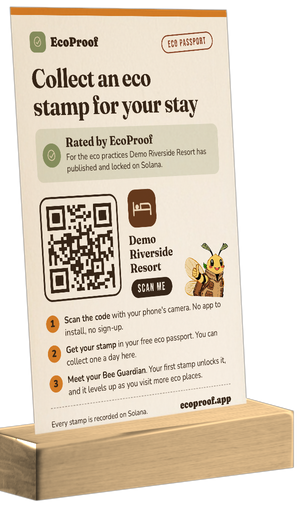
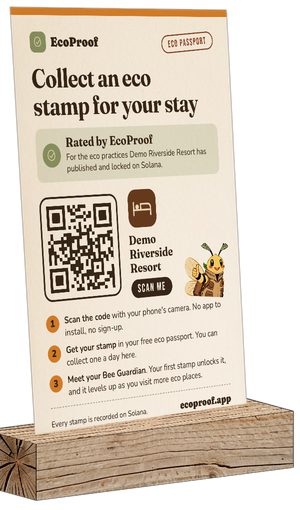
Hero: stand of rough natural wood; no owner line, no early-days box
Claude-Session: https://claude.ai/code/session_01HWHP3iugw8gkvvKKS5vpBj

Changed region(s): [[0.0, 0.7647, 0.99, 1.0]]

diff --git a/components/landing/Landing.tsx b/components/landing/Landing.tsx
@@ -199,7 +199,7 @@ function SolanaTip() {
 }
 
 /** The hero's words and actions, shared by every hero. `center` for the island, where the copy sits in the sky. */
-/** The hero speaks to customers (Pola, 2026-11-18); owners get one line with "Add place" under it. */
+/** The hero speaks to customers only (Pola, 2026-11-18); owners find "Add place" in the navigation. */
 function HeroCopy({ center }: { center?: boolean }) {
   return (
     <>
@@ -210,7 +210,6 @@ function HeroCopy({ center }: { center?: boolean }) {
         <Link href="/map" className="inline-flex h-12 items-center text-[16px] font-extrabold text-cocoa underline decoration-sky decoration-[3px] underline-offset-4 hover:decoration-honey">Find eco places</Link>
       </div>
       <p className={`${center ? "text-center " : ""}mt-3 text-[15px] font-bold text-cocoa/85`}>Free. No app to install, no account needed to start.</p>
-      <p className={`${center ? "text-center " : ""}mt-2 text-[15px] text-cocoa/85`}>Run an eco café, hotel or shop? <Link href="/join" className="font-extrabold text-cocoa underline decoration-sky decoration-[3px] underline-offset-4 hover:decoration-honey">Add place</Link>. Free for the first 50 businesses.</p>
     </>
   );
 }
@@ -239,7 +238,6 @@ export default async function Landing({ stats }: { stats: LandingStats | null })
           <div className="mx-auto grid max-w-[1200px] items-center gap-12 lg:grid-cols-[minmax(0,7fr)_minmax(0,5fr)] lg:gap-12">
             <div>
               <HeroCopy />
-              <CounterStrip stats={stats} className="mt-8 flex" />
             </div>
             <MapPicture scanned />
           </div>

diff --git a/components/landing/MapPicture.tsx b/components/landing/MapPicture.tsx
@@ -133,7 +133,7 @@ export default function MapPicture({ scanned = false }: { scanned?: boolean }) {
         <svg viewBox="0 0 100 100" preserveAspectRatio="none" className="pointer-events-none absolute inset-0 h-full w-full" aria-hidden>
           <path d="M83 33 C 86 36, 87 40, 86 46" fill="none" stroke="#e08a2e" strokeWidth={3} strokeDasharray="7 6" strokeLinecap="round" vectorEffect="non-scaling-stroke" />
         </svg>
-        <Image src="/landing/hero/stand-oak.webp" alt="The hotel's EcoProof postcard on a small stand of natural wood: Collect an eco stamp for your stay, Rated by EcoProof, with a QR code" width={300} height={510} sizes="(min-width: 640px) 170px, 120px"
+        <Image src="/landing/hero/stand-rough.webp" alt="The hotel's EcoProof postcard on a small stand of rough natural wood: Collect an eco stamp for your stay, Rated by EcoProof, with a QR code" width={300} height={510} sizes="(min-width: 640px) 170px, 120px"
           className="hero-stand absolute -bottom-[16%] -left-3 -rotate-[3deg] drop-shadow-[0_18px_22px_rgba(58,42,28,0.4)] lg:-left-10" />
         <ScanPhone />
       </>}

diff --git a/art/hero-scan/cutout.py b/art/hero-scan/cutout.py
@@ -19,25 +19,24 @@ a = cv2.warpPerspective(np.full((ch, cw), 255, np.float32), M, (W*SS, H*SS), fla
 big = big*(1-a) + big*(pr/255)*a
 # The block in the photo is far wider and deeper than the card and has a glossy top (Pola: "overdimensional", "too shiny", "thinner
 # in depth"), so a slim holder is built from its wood instead: a little wider than the card, a narrow strip deep, lower, with a matt
-# top. Its faces carry the grain of the photo's two side faces, laid onto the new shape and recoloured to light natural oak.
+# top. Its faces are rough sawn, untreated wood (wood.py: a plank for the top and the front, end grain for the side; Pola: natural, rougher, nature looking).
 F, R, L = np.float32((500, 828)), np.float32((773, 793)), np.float32((303, 775))     # the photo block's front, right and left top corners
 P = lambda a, b: F + a*(R - F) + b*(L - F)                                            # a along the card, b into the depth; the card stands at b = 0.57
 A0, A1, B0, B1, TH = -0.04, 0.90, 0.44, 0.70, np.float32((0, 56))                     # the new holder: along the card, in depth, and its height
 f, r, l, bk = P(A0, B0), P(A1, B0), P(A0, B1), P(A1, B1)
-plain = cv2.resize(src, (W*SS, H*SS), interpolation=cv2.INTER_LANCZOS4).astype(np.float32); size = (W*SS, H*SS)
-block = np.zeros_like(plain); bm = np.zeros((H*SS, W*SS), np.uint8)
-OAK = np.float32((214, 180, 134))                # light, untreated oak (Pola: natural wood, not the photo's dark stained block)
-def face(src_quad, dst_quad, gain=1.0):
+size = (W*SS, H*SS)
+block = np.zeros((H*SS, W*SS, 3), np.float32); bm = np.zeros((H*SS, W*SS), np.uint8)
+WOOD = {n: np.asarray(Image.open(D/f"wood_{n}.png").convert("RGB"), np.float32) for n in ("face", "end")}   # wood.py: rough sawn, untreated
+def face(tex, box, dst_quad, gain=1.0):
+    """Lay the part `box` (x0, y0, x1, y1) of a wood texture onto one face of the holder."""
     global block, bm
-    M2 = cv2.getPerspectiveTransform(np.float32(src_quad)*SS, np.float32(dst_quad)*SS)
-    w = cv2.warpPerspective(plain, M2, size, flags=cv2.INTER_AREA); m = np.zeros((H*SS, W*SS), np.uint8); cv2.fillPoly(m, [np.int32(np.float32(dst_quad)*SS)], 255, cv2.LINE_AA)
-    lum = w.mean(2, keepdims=True); mean = lum[m > 0].mean()
-    w = OAK*gain*(lum/mean)**0.55                # natural, unstained wood: the photo's grain, in the colour of light oak
-    k = (m.astype(np.float32)/255)[..., None]; block = block*(1-k) + w*k; bm = np.maximum(bm, m)
-RIGHT = [(500, 834), (773, 800), (773, 895), (500, 968)]; LEFT = [(306, 782), (497, 834), (497, 968), (306, 860)]   # the photo's two faces, just inside their edges
-face(RIGHT, [l, bk, r, f], 1.07)             # top: matt wood, a little lighter than the front
-face(LEFT, [l, f, f + TH, l + TH], 0.74)     # the side in shadow
-face(RIGHT, [f, r, r + TH, f + TH], 0.93)    # the front
+    x0, y0, x1, y1 = box; t = WOOD[tex][y0:y1, x0:x1]
+    M2 = cv2.getPerspectiveTransform(np.float32([(0, 0), (x1-x0, 0), (x1-x0, y1-y0), (0, y1-y0)]), np.float32(dst_quad)*SS)
+    w = cv2.warpPerspective(t, M2, size, flags=cv2.INTER_AREA); m = np.zeros((H*SS, W*SS), np.uint8); cv2.fillPoly(m, [np.int32(np.float32(dst_quad)*SS)], 255, cv2.LINE_AA)
+    k = (m.astype(np.float32)/255)[..., None]; block = block*(1-k) + w*gain*k; bm = np.maximum(bm, m)
+face("face", (60, 40, 1000, 230), [l, bk, r, f], 1.06)            # top: the plank's upper boards
+face("end", (60, 120, 400, 420), [l, f, f + TH, l + TH], 0.72)    # the side: end grain, in shadow
+face("face", (40, 280, 1000, 500), [f, r, r + TH, f + TH], 0.92)  # the front: the lower boards with their knots
 cm = np.zeros((H*SS, W*SS), np.uint8); cv2.fillPoly(cm, [np.int32(np.float32(QUAD)*SS)], 255, cv2.LINE_AA)
 ca = (cv2.GaussianBlur(cm, (0, 0), 0.8).astype(np.float32)/255)[..., None]
 out = block*(1-ca) + big*ca

diff --git a/art/hero-scan/wood.py b/art/hero-scan/wood.py
@@ -1,0 +1,14 @@
+#!/usr/bin/env python3
+"""Rough natural wood for the hero's card holder (Pola: natural, rougher, nature looking): a face texture and an end-grain texture.
+epicrealismXL via the local A1111 API → wood_face.png, wood_end.png (1024x512 / 512x512)."""
+import base64, io, json, pathlib, urllib.request
+from PIL import Image
+D = pathlib.Path(__file__).parent
+CKPT = "sd/epicrealismXL_vxviiCrystalclear.safetensors [3267fd6443]"
+JOBS = {"wood_face": ("flat lay macro photo, full frame texture of a rough sawn raw untreated pale wood plank, natural light brown, coarse open grain running horizontally, saw marks, small knots and cracks, weathered, matte, even soft light, high detail", 1024, 512, 2101),
+        "wood_end": ("flat lay macro photo, full frame texture of the rough cut end grain of a raw untreated pale wooden beam, growth rings, small cracks, saw marks, natural light brown, matte, even soft light, high detail", 512, 512, 2102)}
+for name, (prompt, w, h, seed) in JOBS.items():
+    req = urllib.request.Request("http://127.0.0.1:7860/sdapi/v1/txt2img", headers={"Content-Type": "application/json"}, data=json.dumps({
+        "prompt": prompt, "negative_prompt": "glossy, varnish, polished, paint, text, logo, object, border, frame, table, background, blurry", "seed": seed, "steps": 30, "cfg_scale": 6,
+        "sampler_name": "DPM++ 2M", "scheduler": "karras", "width": w, "height": h, "override_settings": {"sd_model_checkpoint": CKPT}, "save_images": False}).encode())
+    Image.open(io.BytesIO(base64.b64decode(json.load(urllib.request.urlopen(req, timeout=900))["images"][0]))).save(D/f"{name}.png"); print(name, flush=True)

diff --git a/CLAUDE.md b/CLAUDE.md
@@ -112,7 +112,7 @@ on Solana. For sustainable shops, cafés, markets and online brands.
   (`components/landing/CheckRecord.tsx` → `/api/verify`); "Your impact page writes itself" shows the example shop (most verified purchases) with
   its numbers linking to `/places/<id>#proofs` (the proof list, `shopProofs()` in `lib/shops.ts`), and the live badge: `lib/badge.ts` builds the SVG,
   `/api/badge/<place>.svg` serves it (eco shops only, cached 5 min), `badgeEmbed()` is the snippet, shown only on the owner dashboard (`badge` in the activity API); the landing shows the badge image without its code. Below `FEW_ORDERS` (10, `lib/badge.ts`) verified orders the badge and the landing widget lead with the order count instead of the totals, so one big order can't look like inflation. With no example shop the widget shows dashes,
-  never zeros. The hero (Pola, 2026-11-18, final after several photo heroes that "did not work") has no photo: the copy on kraft, and beside it three pictures in one (`MapPicture scanned`): the map of eco places with its QR pins, the hotel's A6 postcard on its wooden stand as a cut-out at the lower left (`art/hero-scan/cutout.py`, which rebuilds the photo's oversized, glossy wooden block as a slim matt holder with the same grain in light natural oak (Pola: too big, too shiny, too deep, and natural wood), → `public/landing/hero/stand-oak.webp`, width in `.hero-stand`), and at the lower right a phone drawn in HTML (`ScanPhone`, size in `.scan-phone`) that has just scanned the Hotel pin's QR code (the code is framed, a dashed line runs to the phone) and shows "Stamp collected", the points, the proof and the Sentinel. Keep the scanned pin clear of the phone. Dropped the same day, recipes kept: a guest in a hotel room (`art/hero-room/`), a hotel desk photo with the postcard (`art/hero-scan/gen.py`, `clear.py`, `compose.py`). Section order: hero, the award line (partner logos and "founding partner" dropped 2026-11-15), customers ("I'm eco, and I have proof.", `#customers`, moved up under the hero on 2026-11-18; its picture is the passport phone mockup), "How it works" (`#how`, a carousel since 2026-11-18, `components/landing/HowItWorks.tsx`; it replaced "Live in three steps" and the Solana journey, which told the same steps: slide 1 "Find the QR code" shows three places to find it, each a picture with what a stamp there is worth, in this order: the café postcard photo (café / restaurant / hotel / resort), the eco shop door's receipt photo (a purchase in an eco shop), the parcel-arrived picture (an online order: parcel card and order email); points read from `lib/stampClasses.ts`; slide 2 "A few seconds on the phone" has the stamp picture, four steps worded for a visit and an order at once (no switch), "Watch it on a phone" (swaps the picture for the visit replay) and sharing; slide 3 "And it stays that way" is the plain-words "What is Solana, and why put a coffee stamp on it?" with the proof picture under it, the promises and honest limits, and carries `#why-chain`, which opens that slide; one scroll-snap row, as tall as the slide on show, with tabs and a next button that ends in "Join as a business". Pola wants slide 2 more interactive or animated later: talk first), "Anyone can print a green badge" (`#proof`: claim vs a record headlined "Unchanged since <date>", with the live check), business types, "Your public page writes itself" (`#impact`: badge, the shop impact widget, and a star card from `LandingStats.hospitality` with a Café / Restaurant | Hotel / Resort switch (`components/landing/HospitalityCard.tsx`; each a real place once one has published stars, else a demo place shown as a dashed specimen with unfilled stars; the hotel side adds "What guests see before they book"), after the real shop widget on phones), pricing, closing. Below `COUNTERS_FROM` proofs the hero shows an "early days" line instead of counter tiles; below 10 purchases the impact widget starts with the orders behind its numbers and highlights no figure. Phones get a "Try it: collect a demo stamp" button instead of the QR card. The phone replay (`components/landing/StampJourney.tsx`, `door` prop, loops, still under reduced motion) replays the real claim steps for a visit or an order; the scannable on-page QR card, the hash/memo tiles (`ChainFlow`) and the on/off-chain box were dropped as too much, too technical.
+  never zeros. The hero (Pola, 2026-11-18, final after several photo heroes that "did not work") has no photo: the copy on kraft (for customers only: no line for owners and no counter or "early days" box in the hero, Pola took both out; "Add place" is in the navigation), and beside it three pictures in one (`MapPicture scanned`): the map of eco places with its QR pins, the hotel's A6 postcard on its wooden stand as a cut-out at the lower left (`art/hero-scan/cutout.py`, which rebuilds the photo's oversized, glossy wooden block as a slim holder of rough sawn, untreated wood (`wood.py` makes the plank and end-grain textures; Pola: the block was too big, too shiny, too deep, and the wood should look natural and rough), → `public/landing/hero/stand-rough.webp`, width in `.hero-stand`), and at the lower right a phone drawn in HTML (`ScanPhone`, size in `.scan-phone`) that has just scanned the Hotel pin's QR code (the code is framed, a dashed line runs to the phone) and shows "Stamp collected", the points, the proof and the Sentinel. Keep the scanned pin clear of the phone. Dropped the same day, recipes kept: a guest in a hotel room (`art/hero-room/`), a hotel desk photo with the postcard (`art/hero-scan/gen.py`, `clear.py`, `compose.py`). Section order: hero, the award line (partner logos and "founding partner" dropped 2026-11-15), customers ("I'm eco, and I have proof.", `#customers`, moved up under the hero on 2026-11-18; its picture is the passport phone mockup), "How it works" (`#how`, a carousel since 2026-11-18, `components/landing/HowItWorks.tsx`; it replaced "Live in three steps" and the Solana journey, which told the same steps: slide 1 "Find the QR code" shows three places to find it, each a picture with what a stamp there is worth, in this order: the café postcard photo (café / restaurant / hotel / resort), the eco shop door's receipt photo (a purchase in an eco shop), the parcel-arrived picture (an online order: parcel card and order email); points read from `lib/stampClasses.ts`; slide 2 "A few seconds on the phone" has the stamp picture, four steps worded for a visit and an order at once (no switch), "Watch it on a phone" (swaps the picture for the visit replay) and sharing; slide 3 "And it stays that way" is the plain-words "What is Solana, and why put a coffee stamp on it?" with the proof picture under it, the promises and honest limits, and carries `#why-chain`, which opens that slide; one scroll-snap row, as tall as the slide on show, with tabs and a next button that ends in "Join as a business". Pola wants slide 2 more interactive or animated later: talk first), "Anyone can print a green badge" (`#proof`: claim vs a record headlined "Unchanged since <date>", with the live check), business types, "Your public page writes itself" (`#impact`: badge, the shop impact widget, and a star card from `LandingStats.hospitality` with a Café / Restaurant | Hotel / Resort switch (`components/landing/HospitalityCard.tsx`; each a real place once one has published stars, else a demo place shown as a dashed specimen with unfilled stars; the hotel side adds "What guests see before they book"), after the real shop widget on phones), pricing, closing. Below `COUNTERS_FROM` proofs the hero shows an "early days" line instead of counter tiles; below 10 purchases the impact widget starts with the orders behind its numbers and highlights no figure. Phones get a "Try it: collect a demo stamp" button instead of the QR card. The phone replay (`components/landing/StampJourney.tsx`, `door` prop, loops, still under reduced motion) replays the real claim steps for a visit or an order; the scannable on-page QR card, the hash/memo tiles (`ChainFlow`) and the on/off-chain box were dropped as too much, too technical.
 - `/join` lives outside `(app)` (`app/join/`, content in `components/landing/JoinFlow.tsx`) and wears the landing's journal chrome (`LandingNav page="join"`);
   sign-in there leads with Google/Facebook, the wallet sits under "Other ways to sign in".
 - Points by kind (`POINTS_BY_KIND` in `lib/stampClasses.ts`, decided 21 Oct 2026): a presence stamp is worth 1 at a café or restaurant,
